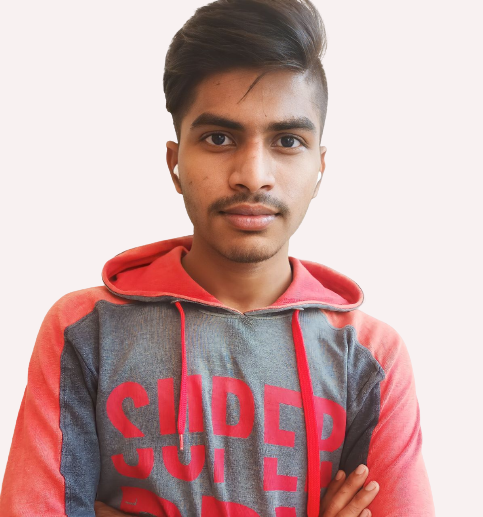
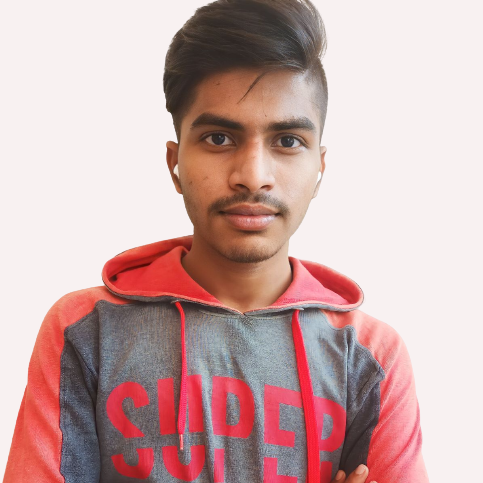
fd changes done

diff --git a/team.html b/team.html
@@ -91,7 +91,7 @@
 
           <div class="col-xl-3 col-md-6 d-flex" data-aos="fade-up" data-aos-delay="100">
             <div class="member">
-              <img src="assets/img/team1/Mugala Shravya (MARKETING).jpg" class="img-fluid" alt="">
+              <img src="assets/img/team/1.png" class="img-fluid" alt="">
               <h4>Shravya Mugala</h4>
               <span>Marketing</span>
               <div class="social">
@@ -134,7 +134,7 @@
           </div><!-- End Team Member -->
           <div class="col-xl-3 col-md-6 d-flex" data-aos="fade-up" data-aos-delay="100">
             <div class="member">
-              <img src="assets/img/team1/VARSHIKA (DOC).jpeg" class="img-fluid" alt="">
+              <img src="assets/img/team/5.png" class="img-fluid" alt="">
               <h4>Varshika</h4>
               <span>Documentation</span>
               <div class="social">
@@ -145,7 +145,7 @@
 
           <div class="col-xl-3 col-md-6 d-flex" data-aos="fade-up" data-aos-delay="200">
             <div class="member">
-              <img src="assets/img/team1/Jemima Madasi(DOC).jpg" class="img-fluid" alt="">
+              <img src="assets/img/team/6.png" class="img-fluid" alt="">
               <h4>Madasi Jemima</h4>
               <span>Documentation</span>
               <div class="social">
@@ -156,7 +156,7 @@
 
           <div class="col-xl-3 col-md-6 d-flex" data-aos="fade-up" data-aos-delay="300">
             <div class="member">
-              <img src="assets/img/team1/vishal panigrahi (DOC).jpg" class="img-fluid" alt="">
+              <img src="assets/img/team/7.png" class="img-fluid" alt="">
               <h4>Venkata Ramana Panigrahi</h4>
               <span>Documentation</span>
               <div class="social">
@@ -167,7 +167,7 @@
 
           <div class="col-xl-3 col-md-6 d-flex" data-aos="fade-up" data-aos-delay="400">
             <div class="member">
-              <img src="assets/img/team1/chanikya (DOC).jpeg" class="img-fluid" alt="">
+              <img src="assets/img/team/8.png" class="img-fluid" alt="">
               <h4>Pamarthi Chanikya</h4>
               <span>Documentation</span>
               <div class="social">
@@ -177,7 +177,7 @@
           </div><!-- End Team Member -->
           <div class="col-xl-3 col-md-6 d-flex" data-aos="fade-up" data-aos-delay="100">
             <div class="member">
-              <img src="assets/img/team1/Siva Teja PD.jpg" class="img-fluid" alt="">
+              <img src="assets/img/team/9.png" class="img-fluid" alt="">
               <h4>Pinjala Siva Teja</h4>
               <span>Poster Designing</span>
               <div class="social">
@@ -199,7 +199,7 @@
 
           <div class="col-xl-3 col-md-6 d-flex" data-aos="fade-up" data-aos-delay="300">
             <div class="member">
-              <img src="assets/img/team1/Tharun reddy (PD).jpeg" class="img-fluid" alt="">
+              <img src="assets/img/team/11.png" class="img-fluid" alt="">
               <h4>Tharun Reddy</h4>
               <span>Poster Designing</span>
               <div class="social">
@@ -210,7 +210,7 @@
 
           <div class="col-xl-3 col-md-6 d-flex" data-aos="fade-up" data-aos-delay="400">
             <div class="member">
-              <img src="assets/img/team1/karthik subbu (PD).jpg" class="img-fluid" alt="">
+              <img src="assets/img/team/12.png" class="img-fluid" alt="">
               <h4>Karthikeya</h4>
               <span>Poster Designing</span>
               <div class="social">
@@ -231,7 +231,7 @@
 
           <div class="col-xl-3 col-md-6 d-flex" data-aos="fade-up" data-aos-delay="200">
             <div class="member">
-              <img src="assets/img/team1/Samreen Mohammad(HOSPITALITY).jpg" class="img-fluid" alt="">
+              <img src="assets/img/team/14.png" class="img-fluid" alt="">
               <h4>Samreen</h4>
               <span>Hospitality</span>
               <div class="social">
@@ -285,7 +285,7 @@
 
           <div class="col-xl-3 col-md-6 d-flex" data-aos="fade-up" data-aos-delay="300">
             <div class="member">
-              <img src="assets/img/team1/Nihanth WD.jpg" class="img-fluid" alt="">
+              <img src="assets/img/team/19.png" class="img-fluid" alt="">
               <h4>Sripathi Nihanth Reddy</h4>
               <span>Web Designing</span>
               <div class="social">
@@ -296,7 +296,7 @@
 
           <div class="col-xl-3 col-md-6 d-flex" data-aos="fade-up" data-aos-delay="400">
             <div class="member">
-              <img src="assets/img/team1/Copy of saiganesh(WD).jpg" class="img-fluid" alt="">
+              <img src="assets/img/team/20.png" class="img-fluid" alt="">
               <h4>Sai Ganesh Kemburu</h4>
               <span>Web Designing</span>
               <div class="social">
@@ -306,7 +306,7 @@
           </div><!-- End Team Member -->
           <div class="col-xl-3 col-md-6 d-flex" data-aos="fade-up" data-aos-delay="100">
             <div class="member">
-              <img src="assets/img/team1/Nandini Gaddam (SMP).jpg" class="img-fluid" alt="">
+              <img src="assets/img/team/21.png" class="img-fluid" alt="">
               <h4>Nandini Gaddam</h4>
               <span>Social Media Promotion</span>
               <div class="social">
@@ -328,7 +328,7 @@
 
           <div class="col-xl-3 col-md-6 d-flex" data-aos="fade-up" data-aos-delay="300">
             <div class="member">
-              <img src="assets/img/team1/Shashi Bandoju (SMP).jpg" class="img-fluid" alt="">
+              <img src="assets/img/team/23.png" class="img-fluid" alt="">
               <h4>Shashikanth Bandoju</h4>
               <span>Social Media Promotion</span>
               <div class="social">
@@ -354,10 +354,10 @@
                 align-content: space-between;
                 align-items: center;
                 font-size: 30px;">
-                    <div class="social" style="padding: 14px;">
+                    <div class="social" style="padding: 7px; ">
                         <a href="https://www.instagram.com/avishkar2k23/" target="_blank"><i class="fa-brands fa-square-instagram" style="color: white;"></i></a>
                     </div>
-                    <div class="social">
+                    <div class="social" style="padding: 7px;">
                         <a href="https://www.facebook.com/avishkar2k23" target="_blank"><i class="fa-brands fa-square-facebook" style="color: white;"></i></a>
                     </div>
                     <script src="https://kit.fontawesome.com/ae648be6d5.js" crossorigin="anonymous"></script>

diff --git a/index.html b/index.html
@@ -277,7 +277,7 @@ their oratory skills and research adroitness.
                     participating in Avishkar and exhibiting their ideas adeptly can embark on their journey of
                     augmenting new
                     skills.
-                    <i class="bi bi-quote quote-icon-right"></i>
+                    <i class="bi bi-quote quote-icon-right" style="line-height: 0;"></i>
                   </p>
                 </div>
               </div>
@@ -302,7 +302,7 @@ more proficient and professional manner. The empiricism was essential in elevati
 inducing a transformation in my perspective, transitioning me from a passive spectator to an active participant.
 Avishkar served as my initial exposure to the world of research, giving me valuable insights and experiences
 that will remain indelible. 
-                    <i class="bi bi-quote quote-icon-right"></i>
+                    <i class="bi bi-quote quote-icon-right" style="line-height: 0;"></i>
                   </p>
                 </div>
               </div>
@@ -327,7 +327,7 @@ and proficiency in public speaking, which I previously lacked as an introvert. D
 beginning, I was able to overcome my stage fright and present my innovative ideas with aplomb. The experience
 was both intellectually inspiring and immensely rewarding. I believe that my participation in Avishkar was a
 transformative decision that greatly enhanced my personal and professional development.
-                    <i class="bi bi-quote quote-icon-right"></i>
+                    <i class="bi bi-quote quote-icon-right" style="line-height: 0;"></i>
                   </p>
                 </div>
               </div>
@@ -353,7 +353,7 @@ presentation. The knowledge and skills acquired during the event have enhanced m
 assisted me to approach my studies with a more knowledgeable and well-informed perspective. I am immensely
 grateful for the opportunity to demonstrate my capabilities through Avishkar, and it will always be an enduring
 event in my freshmen year.
-                    <i class="bi bi-quote quote-icon-right"></i>
+                    <i class="bi bi-quote quote-icon-right" style="line-height: 0;"></i>
                   </p>
                 </div>
               </div>
@@ -378,7 +378,7 @@ expanded my understanding of various technical subjects. The experience facilita
 cognitive scope, driving me to transcend my current state of knowledge and illuminating novel possibilities for
 intellectual progression. The exposure I had was truly enriching and I believe it will be of great value as I
 continue to pursue my academic and professional goals.
-                    <i class="bi bi-quote quote-icon-right"></i>
+                    <i class="bi bi-quote quote-icon-right" style="line-height: 0;"></i>
                   </p>
                 </div>
               </div>
@@ -403,7 +403,7 @@ opportunity to develop my understanding of the leading-edge technologies that ar
 experience imparted us with a comprehensive exposure to a plethora of advanced technical topics. It endorsed
 my desire to contemplate beyond the boundaries of existing technologies. My counsel to those seeking to
 partake in Avishkar is to consistently radiate self-assurance, articulate your concepts and aspire for preeminence
-                    <i class="bi bi-quote quote-icon-right"></i>
+                    <i class="bi bi-quote quote-icon-right" style="line-height: 0;"></i>
                   </p>
                 </div>
               </div>
@@ -429,7 +429,7 @@ dedication and persistence. The event enhanced my abilities by providing me with
 and knowledge, and it also strengthened my passion for innovation. It gave a valuable opportunity to augment
 my public speaking abilities. Avishkar was truly an indelible event, and I am indebted for the
 experiences it provided.
-                    <i class="bi bi-quote quote-icon-right"></i>
+                    <i class="bi bi-quote quote-icon-right" style="line-height: 0;"></i>
                   </p>
                 </div>
               </div>
@@ -465,10 +465,10 @@ experiences it provided.
                 align-content: space-between;
                 align-items: center;
                 font-size: 30px;">
-                    <div class="social" style="padding: 14px; ">
+                    <div class="social" style="padding: 7px; ">
                         <a href="https://www.instagram.com/avishkar2k23/" target="_blank"><i class="fa-brands fa-square-instagram" style="color: white;"></i></a>
                     </div>
-                    <div class="social">
+                    <div class="social" style="padding: 7px;">
                         <a href="https://www.facebook.com/avishkar2k23" target="_blank"><i class="fa-brands fa-square-facebook" style="color: white;"></i></a>
                     </div>
                     <script src="https://kit.fontawesome.com/ae648be6d5.js" crossorigin="anonymous"></script>

diff --git a/aboutevent.html b/aboutevent.html
@@ -184,10 +184,10 @@ future pursuits of the freshmen of VBIT. It comprises of two rounds:
                 align-content: space-between;
                 align-items: center;
                 font-size: 30px;">
-                    <div class="social" style="padding: 14px;">
+                    <div class="social" style="padding: 7px; ">
                         <a href="https://www.instagram.com/avishkar2k23/" target="_blank"><i class="fa-brands fa-square-instagram" style="color: white;"></i></a>
                     </div>
-                    <div class="social">
+                    <div class="social" style="padding: 7px;">
                         <a href="https://www.facebook.com/avishkar2k23" target="_blank"><i class="fa-brands fa-square-facebook" style="color: white;"></i></a>
                     </div>
                     <script src="https://kit.fontawesome.com/ae648be6d5.js" crossorigin="anonymous"></script>

diff --git a/contact.html b/contact.html
@@ -144,10 +144,10 @@
                 align-content: space-between;
                 align-items: center;
                 font-size: 30px;">
-                    <div class="social" style="padding: 14px;">
+                    <div class="social" style="padding: 7px; ">
                         <a href="https://www.instagram.com/avishkar2k23/" target="_blank"><i class="fa-brands fa-square-instagram" style="color: white;"></i></a>
                     </div>
-                    <div class="social">
+                    <div class="social" style="padding: 7px;">
                         <a href="https://www.facebook.com/avishkar2k23" target="_blank"><i class="fa-brands fa-square-facebook" style="color: white;"></i></a>
                     </div>
                     <script src="https://kit.fontawesome.com/ae648be6d5.js" crossorigin="anonymous"></script>

diff --git a/faqs.html b/faqs.html
@@ -285,10 +285,10 @@
                 align-content: space-between;
                 align-items: center;
                 font-size: 30px;">
-                    <div class="social" style="padding: 14px;">
+                    <div class="social" style="padding: 7px; ">
                         <a href="https://www.instagram.com/avishkar2k23/" target="_blank"><i class="fa-brands fa-square-instagram" style="color: white;"></i></a>
                     </div>
-                    <div class="social">
+                    <div class="social" style="padding: 7px;">
                         <a href="https://www.facebook.com/avishkar2k23" target="_blank"><i class="fa-brands fa-square-facebook" style="color: white;"></i></a>
                     </div>
                     <script src="https://kit.fontawesome.com/ae648be6d5.js" crossorigin="anonymous"></script>

diff --git a/gallery.html b/gallery.html
@@ -218,10 +218,10 @@
                 align-content: space-between;
                 align-items: center;
                 font-size: 30px;">
-                    <div class="social" style="padding: 14px;">
+                    <div class="social" style="padding: 7px; ">
                         <a href="https://www.instagram.com/avishkar2k23/" target="_blank"><i class="fa-brands fa-square-instagram" style="color: white;"></i></a>
                     </div>
-                    <div class="social">
+                    <div class="social" style="padding: 7px;">
                         <a href="https://www.facebook.com/avishkar2k23" target="_blank"><i class="fa-brands fa-square-facebook" style="color: white;"></i></a>
                     </div>
                     <script src="https://kit.fontawesome.com/ae648be6d5.js" crossorigin="anonymous"></script>

diff --git a/more.html b/more.html
@@ -135,10 +135,10 @@
                 align-content: space-between;
                 align-items: center;
                 font-size: 30px;">
-                    <div class="social" style="padding: 14px;">
+                    <div class="social" style="padding: 7px; ">
                         <a href="https://www.instagram.com/avishkar2k23/" target="_blank"><i class="fa-brands fa-square-instagram" style="color: white;"></i></a>
                     </div>
-                    <div class="social">
+                    <div class="social" style="padding: 7px;">
                         <a href="https://www.facebook.com/avishkar2k23" target="_blank"><i class="fa-brands fa-square-facebook" style="color: white;"></i></a>
                     </div>
                     <script src="https://kit.fontawesome.com/ae648be6d5.js" crossorigin="anonymous"></script>

diff --git a/assets/css/main.css b/assets/css/main.css
@@ -108,6 +108,9 @@ section {
   margin-bottom: 0;
   color: #6f6f6f;
 }
+.bi-quote{
+  line-height: 0!important;
+}
 
 /*--------------------------------------------------------------
 # Breadcrumbs
@@ -538,7 +541,7 @@ section {
     font-family: var(--font-primary);
     font-size: 15px;
     font-weight: 600;
-    color: rgba(255, 255, 255, 0.7);
+    color: #dc3545;
     white-space: nowrap;
     transition: 0.3s;
   }
@@ -1262,7 +1265,7 @@ padding-left: 0px!important;
 }
 @media (max-width:427px){
   .testimonials .testimonial-wrap{
-    height: 500px!important;
+    height: 505px!important;
   }
 }
 @media (max-width:375px) {
